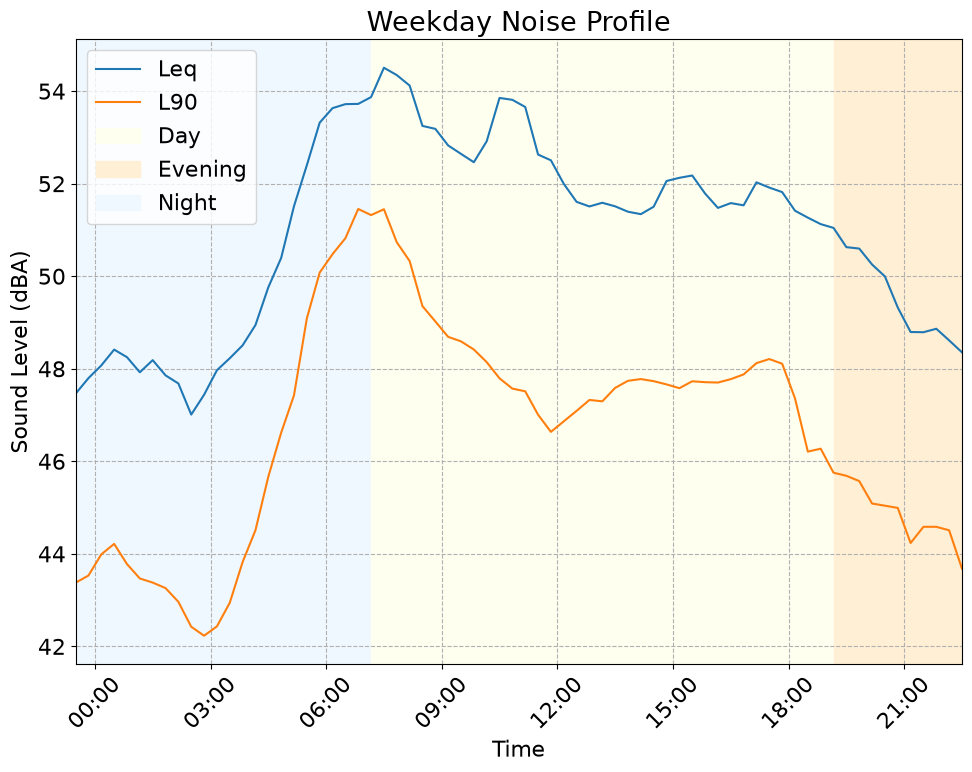
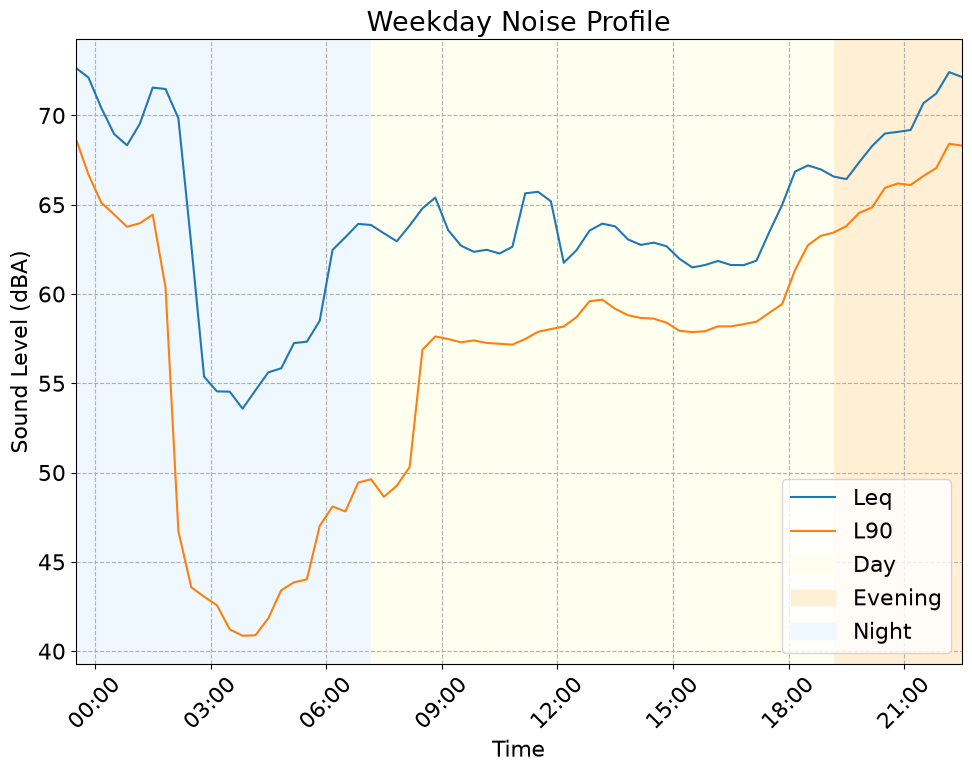
update usage.md example code and plots to avoid computing percentiles on 1-min data

diff --git a/docs/usage.md b/docs/usage.md
@@ -353,11 +353,11 @@ The `nm.profile` module computes **time-varying noise profiles** using rolling w
 Compute rolling average $L_{eq}$, $L_{10}$, $L_{50}$, and $L_{90}$ across the entire dataset with the `noisemonitor.profile.series()` function.
 
 ```python
-# Hourly sliding averages with 20-minute steps
+# Hourly sliding averages with 20-minute steps, on 1 s data (statistical levels)
 time_series = nm.profile.series(
-    df_1m,
-    win=7200,           # Window size in seconds (2 hour)
-    step=2400,          # Step size in seconds (40 minutes)
+    df_1s,
+    win=3600,           # Window size in seconds (1 hour)
+    step=1200,          # Step size in seconds (20 minutes)
     start_at_midnight=True  # Option to start rolling windows at midnight (typically for computing LAeq,24h levels)
 )
 
@@ -373,7 +373,7 @@ nm.display.line(
 
 With `start_at_midnight=True`, the first window starts at the first sample at or after the first midnight of the data. If less than one full window of data follows that midnight, a `ValueError` is raised.
 
-**Note:** $L_{10}$, $L_{50}$, and $L_{90}$ are shown for the example but shouldn't be computed with refresh times above one second. 
+**Note:** statistical levels ($L_{10}$, $L_{50}$, $L_{90}$) should be computed from data at 1 s or finer; on coarser data, plot $L_{eq}$ only.
 
 ### Daily/Weekly Profiles
 
@@ -381,10 +381,19 @@ Compute average profiles representing daily or weekly patterns with the `noisemo
 
 Each window pools the samples of all the selected days that fall within its time of day, and its levels are computed over these pooled samples, not as the mean of daily values. For example, over two weeks of weekdays, the $L_{90}$ of the 08:00–09:00 window is the 10th percentile of the samples from 08:00 to 09:00 of all ten days, and its $L_{eq}$ is their energetic mean.
 
+These examples plot $L_{90}$, so they need 1 s data covering weekdays and weekend days. They use the Bruitparif $L_{Aeq,1s}$ of the [reference data](#reference-data).
+
 ```python
+df_bp = nm.load(
+    'tests/data/external/ext_data_bruitparif_s.csv.xz',
+    datetimeindex='ts',
+    valueindexes='LAeq_1s',
+    timezone='Europe/Paris'  # Local time
+)
+
 # Weekday profile (Mon-Fri)
 weekday_profile = nm.profile.periodic(
-    df_1m,
+    df_bp,
     hour1=23, # hour1 > hour2: from the window starting at 23:00, past midnight,
     hour2=22, # to the one starting at 22:00 (the whole day, from 23:00)
     day1='monday',   # Use day names, not numbers
@@ -395,7 +404,7 @@ weekday_profile = nm.profile.periodic(
 
 # Weekend profile (Sat-Sun), over the same hours as the weekday profile
 weekend_profile = nm.profile.periodic(
-    df_1m,
+    df_bp,
     hour1=23,
     hour2=22,
     day1='saturday',
@@ -624,6 +633,7 @@ with_coverage_leq = nm.summary.leq(
     df_1m,
     hour1=12,
     hour2=16,
+    stats=False,  # 1-min data: equivalent level only
     coverage_check=True,
     coverage_threshold=0.8  # Minimum 80% data coverage required
 )
